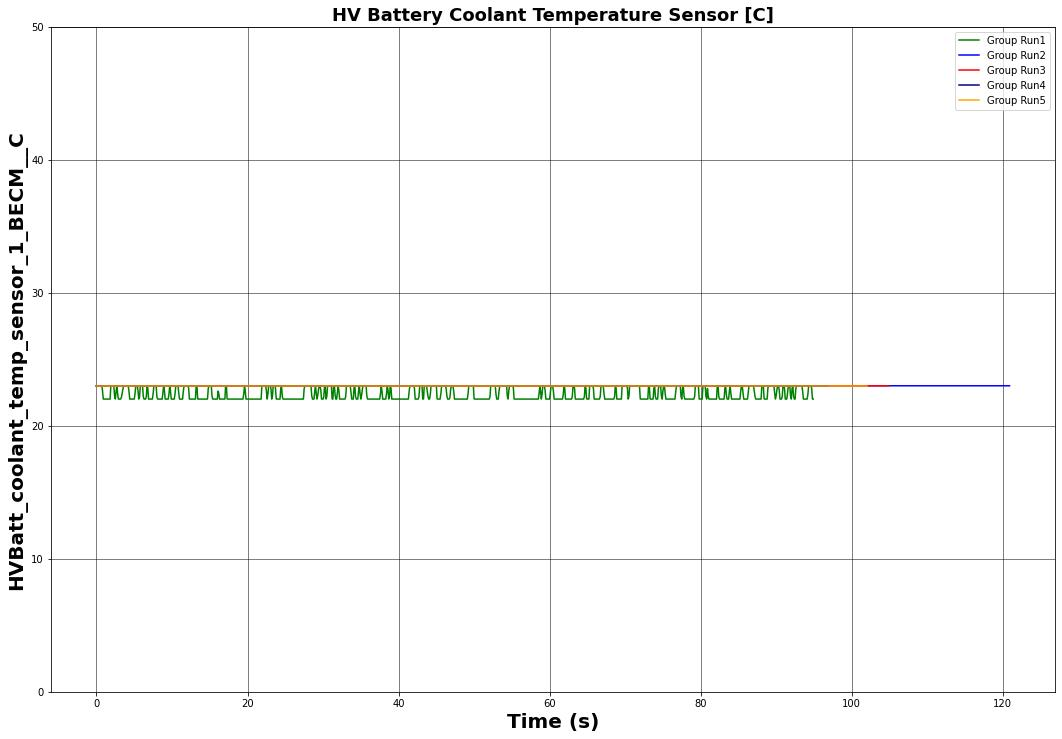
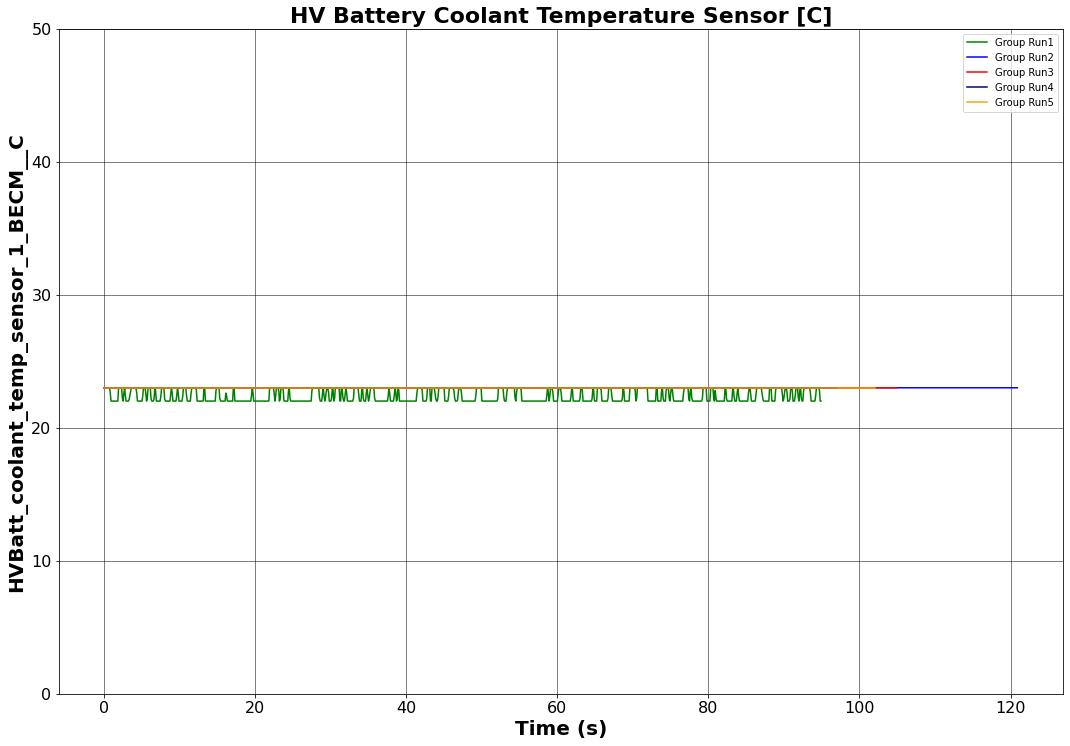
modified the plot tick

diff --git a/src/tools/eco-metric-analysis/DataManager.py b/src/tools/eco-metric-analysis/DataManager.py
@@ -35,49 +35,56 @@ class DataManager:
             fig1, ax1 = plt.subplots(figsize=(18,12))                
             ax1.set_xlabel('Time (s)', fontsize = 20, fontweight='bold')
             ax1.set_ylabel('Trans_oil_temp_CAN__C', fontsize = 20, fontweight='bold')
-            ax1.set_title('Transmission Oil Temperature [C]', fontsize = 18, fontweight = 'bold')
+            ax1.set_title('Transmission Oil Temperature [C]', fontsize = 22, fontweight = 'bold')
             ax1.grid(color = 'black', linestyle = '-', linewidth = 0.5)
             ax1.set_ylim(0,50)
-            # Set tick parameters
             ax1.tick_params(axis='both', which='major', labelsize=16)  # Major ticks
             ax1.tick_params(axis='both', which='minor', labelsize=14)  # Minor ticks
                         
-            
             fig2, ax2 = plt.subplots(figsize=(18,12))                
             ax2.set_xlabel('Time (s)', fontsize = 20, fontweight='bold')
             ax2.set_ylabel('Motor_1_temp_calc_DMCM1__C', fontsize = 20, fontweight='bold')
-            ax2.set_title('Motor Temperature [C]', fontsize = 18, fontweight = 'bold')
+            ax2.set_title('Motor Temperature [C]', fontsize = 22, fontweight = 'bold')
             ax2.grid(color = 'black', linestyle = '-', linewidth = 0.5)
             ax2.set_ylim(0,50)
-            
+            ax2.tick_params(axis='both', which='major', labelsize=16)  # Major ticks
+            ax2.tick_params(axis='both', which='minor', labelsize=14)  # Minor ticks
+
             fig3, ax3 = plt.subplots(figsize=(18,12))                
             ax3.set_xlabel('Time (s)', fontsize = 20, fontweight='bold')
             ax3.set_ylabel('Motor_1_inverter_temp_sensor1_DMCM1__C', fontsize = 20, fontweight='bold')
-            ax3.set_title('Motor Inverter Temperature [C]', fontsize = 18, fontweight = 'bold')
+            ax3.set_title('Motor Inverter Temperature [C]', fontsize = 22, fontweight = 'bold')
             ax3.grid(color = 'black', linestyle = '-', linewidth = 0.5)
             ax3.set_ylim(0,50)
-            
+            ax3.tick_params(axis='both', which='major', labelsize=16)  # Major ticks
+            ax3.tick_params(axis='both', which='minor', labelsize=14)  # Minor ticks
             
             fig4, ax4 = plt.subplots(figsize=(18,12))                
             ax4.set_xlabel('Time (s)', fontsize = 20, fontweight='bold')
-            ax4.set_ylabel('HVBatt_electronics_coolant_pump_command_HPCM2__per', fontsize = 18, fontweight='bold')
-            ax4.set_title('Coolant Pump Command [%]', fontsize = 18, fontweight = 'bold')
+            ax4.set_ylabel('HVBatt_electronics_coolant_pump_command_HPCM2__per', fontsize = 22, fontweight='bold')
+            ax4.set_title('Coolant Pump Command [%]', fontsize = 22, fontweight = 'bold')
             ax4.grid(color = 'black', linestyle = '-', linewidth = 0.5)
             ax4.set_ylim(0,80)
-            
+            ax4.tick_params(axis='both', which='major', labelsize=16)  # Major ticks
+            ax4.tick_params(axis='both', which='minor', labelsize=14)  # Minor ticks
+
             fig5, ax5 = plt.subplots(figsize=(18,12))                
             ax5.set_xlabel('Time (s)', fontsize = 20, fontweight='bold')
             ax5.set_ylabel('HVBatt_coolant_temp_sensor_1_BECM__C', fontsize = 20, fontweight='bold')
-            ax5.set_title('HV Battery Coolant Temperature Sensor [C]', fontsize = 18, fontweight = 'bold')
+            ax5.set_title('HV Battery Coolant Temperature Sensor [C]', fontsize = 22, fontweight = 'bold')
             ax5.grid(color = 'black', linestyle = '-', linewidth = 0.5)
             ax5.set_ylim(0,50)
+            ax5.tick_params(axis='both', which='major', labelsize=16)  # Major ticks
+            ax5.tick_params(axis='both', which='minor', labelsize=14)  # Minor ticks
             
             fig6, ax6 = plt.subplots(figsize=(18,12))                
             ax6.set_xlabel('Time (s)', fontsize = 20, fontweight='bold')
             ax6.set_ylabel('HVAC_AC_Compressor', fontsize = 20, fontweight='bold')
-            ax6.set_title('AC compressor [W]', fontsize = 18, fontweight = 'bold')
+            ax6.set_title('AC compressor [W]', fontsize = 22, fontweight = 'bold')
             ax6.grid(color = 'black', linestyle = '-', linewidth = 0.5)
             # ax6.set_ylim(0,50)
+            ax6.tick_params(axis='both', which='major', labelsize=16)  # Major ticks
+            ax6.tick_params(axis='both', which='minor', labelsize=14)  # Minor ticks
             
             for index, logFile in enumerate(logFileList):
                 self.startTime = self.config['Dyno']['StartTime_EcoDriving'][index] if fileLocation == 'eco-driving' else self.config['Dyno']['StartTime_SoloRun'][index]
@@ -200,14 +207,14 @@ class DataManager:
                 axs[0].plot(time, relativeDistance, label='Inter-Vehicle Distance', c="orange")
                 axs[0].set_xlabel('Time (s)', fontweight = 'bold')
                 axs[0].set_ylabel('Distance (m)', fontweight = 'bold')
-                axs[0].set_title('Inter-Vehicle Distance between ANL & UCLA', fontsize = 18, fontweight = 'bold')
+                axs[0].set_title('Inter-Vehicle Distance between ANL & UCLA', fontsize = 22, fontweight = 'bold')
                 axs[0].legend(loc = 'upper right', bbox_to_anchor = (1, 1))
                 
                 axs[1].plot(time, leadVehicleSpeed, label='Lead Vehicle (UCLA) Speed', c="blue")
                 axs[1].plot(time, hostVehicleSpeed, label='Ego Vehicle (ANL) Speed', c="green")
                 axs[1].set_xlabel('Time (s)', fontweight = 'bold')
                 axs[1].set_ylabel('Vehicle Speed (m/s)', fontweight = 'bold')
-                axs[1].set_title('ANL & UCLA Speed Profile', fontsize = 18, fontweight = 'bold')
+                axs[1].set_title('ANL & UCLA Speed Profile', fontsize = 22, fontweight = 'bold')
                 axs[1].legend(loc = 'upper right', bbox_to_anchor = (1, 1))
 
                 plt.subplots_adjust(wspace = 3.0)
@@ -261,9 +268,9 @@ class DataManager:
                 plt.grid(color = 'black', linestyle = '-', linewidth = 0.5)
                 
                 if fileLocation == 'eco-driving':      
-                    ax1.set_title('ANL & UCLA Speed Profile Group Run' + str(index + 1), fontsize = 18, fontweight = 'bold')
+                    ax1.set_title('ANL & UCLA Speed Profile Group Run' + str(index + 1), fontsize = 22, fontweight = 'bold')
                 
-                else: ax1.set_title('ANL & UCLA Speed Profile Solo Run' + str(index + 1), fontsize = 18, fontweight = 'bold')
+                else: ax1.set_title('ANL & UCLA Speed Profile Solo Run' + str(index + 1), fontsize = 22, fontweight = 'bold')
                 
                 ax1.legend(loc = 'upper right', bbox_to_anchor = (1, 1))
                 # plt.show()
@@ -328,7 +335,7 @@ class DataManager:
                 else: ax1.plot(value1, value2, label = 'Solo Run' + str(roundNo), c = color)
                 
 
-            ax1.set_title("ANL Speed Profile", fontsize = 18, fontweight='bold')
+            ax1.set_title("ANL Speed Profile", fontsize = 22, fontweight='bold')
             fig.tight_layout()  # otherwise the right y-label is slightly clipped
             plt.grid(color = 'black', linestyle = '-', linewidth = 0.5)
             # ax1.legend(loc = 'upper right', bbox_to_anchor = (1.0, 1.22), prop={"size": 16})
